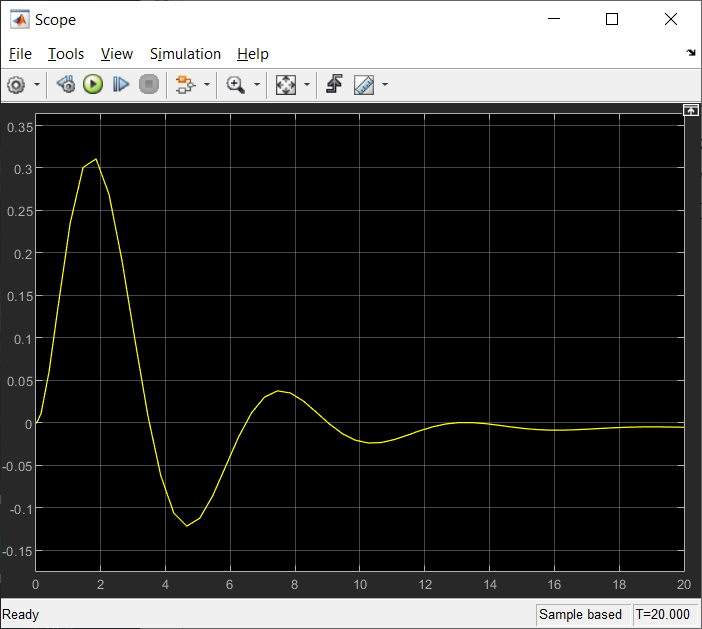
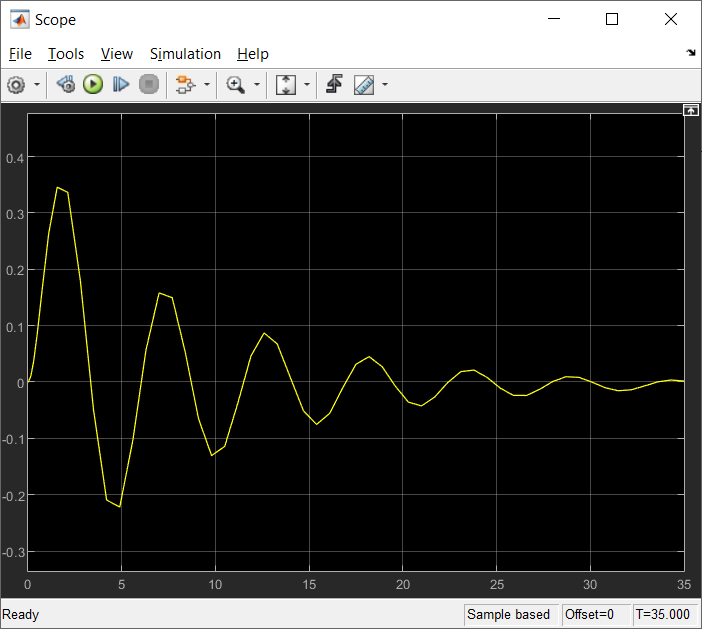
[Task_03][Group of Prolisko][Part_02] Model of a system with a complex transfer function

diff --git a/trunk/as0005322/Task_03/doc/readme.md b/trunk/as0005322/Task_03/doc/readme.md
@@ -3,43 +3,64 @@
 #### Студент: Храповицкий Олег
 
 ###### Task 3. Модель системы с сложной передаточной функцией
-Задание:
+**Цель:** 
+1) научиться строить в Simulink модель системы с сложной структурой с обратными связями; 
+2) Освоить использование LTI-viewer.
+
+**Задание:**
+
 
 <p align="center">
     <img src="images/01.png" >
 </p>
 
-Выполнение:
+**Выполнение:**
 
-1)
+Запустили Matlab и в нем Simulink, затем открыл новое окно модели и построил модель системы следующего вида:
 
 <p align="center">
     <img src="images/02.png" >
 </p>
 
+
+На осциллографе (Scope) получили переходную функцию системы.
 <p align="center">
     <img src="images/03.png" >
 </p>
 
-2)
+Подключили LTI-viewer к системе.
+Основные характеристики системы: 
+
+1) передаточная функция
+
 
 <p align="center">
     <img src="images/04.png" >
 </p>
+Система устройчива, т.к. функция стремится к 0.
 
+2) импульсная характеристика
 <p align="center">
     <img src="images/05.png" >
 </p>
 
+3) амплитудно-частотная и фазо-частотная характеристики
 <p align="center">
     <img src="images/06.png" >
 </p>
 
-3)
-
+4) диаграмма Найквиста
 <p align="center">
     <img src="images/07.png" >
 </p>
+Система устойчива, т.к. точка (0;-1) не принадлежит области.
 
-Вывод: научился строить в Simulink модель системы с сложной структурой с
-обратными связями
+
+5) значение нулей и полюсов
+<p align="center">
+    <img src="images/08.png" >
+</p>
+Система устройчива – полюса находятся в отрицательной области (2,3 четверти).
+
+
+**Вывод:** в ходе лабораторной работы научились строить в Simulink модель системы с сложной структурой с обратными связями, а также освоили использование LTI-viewer.
